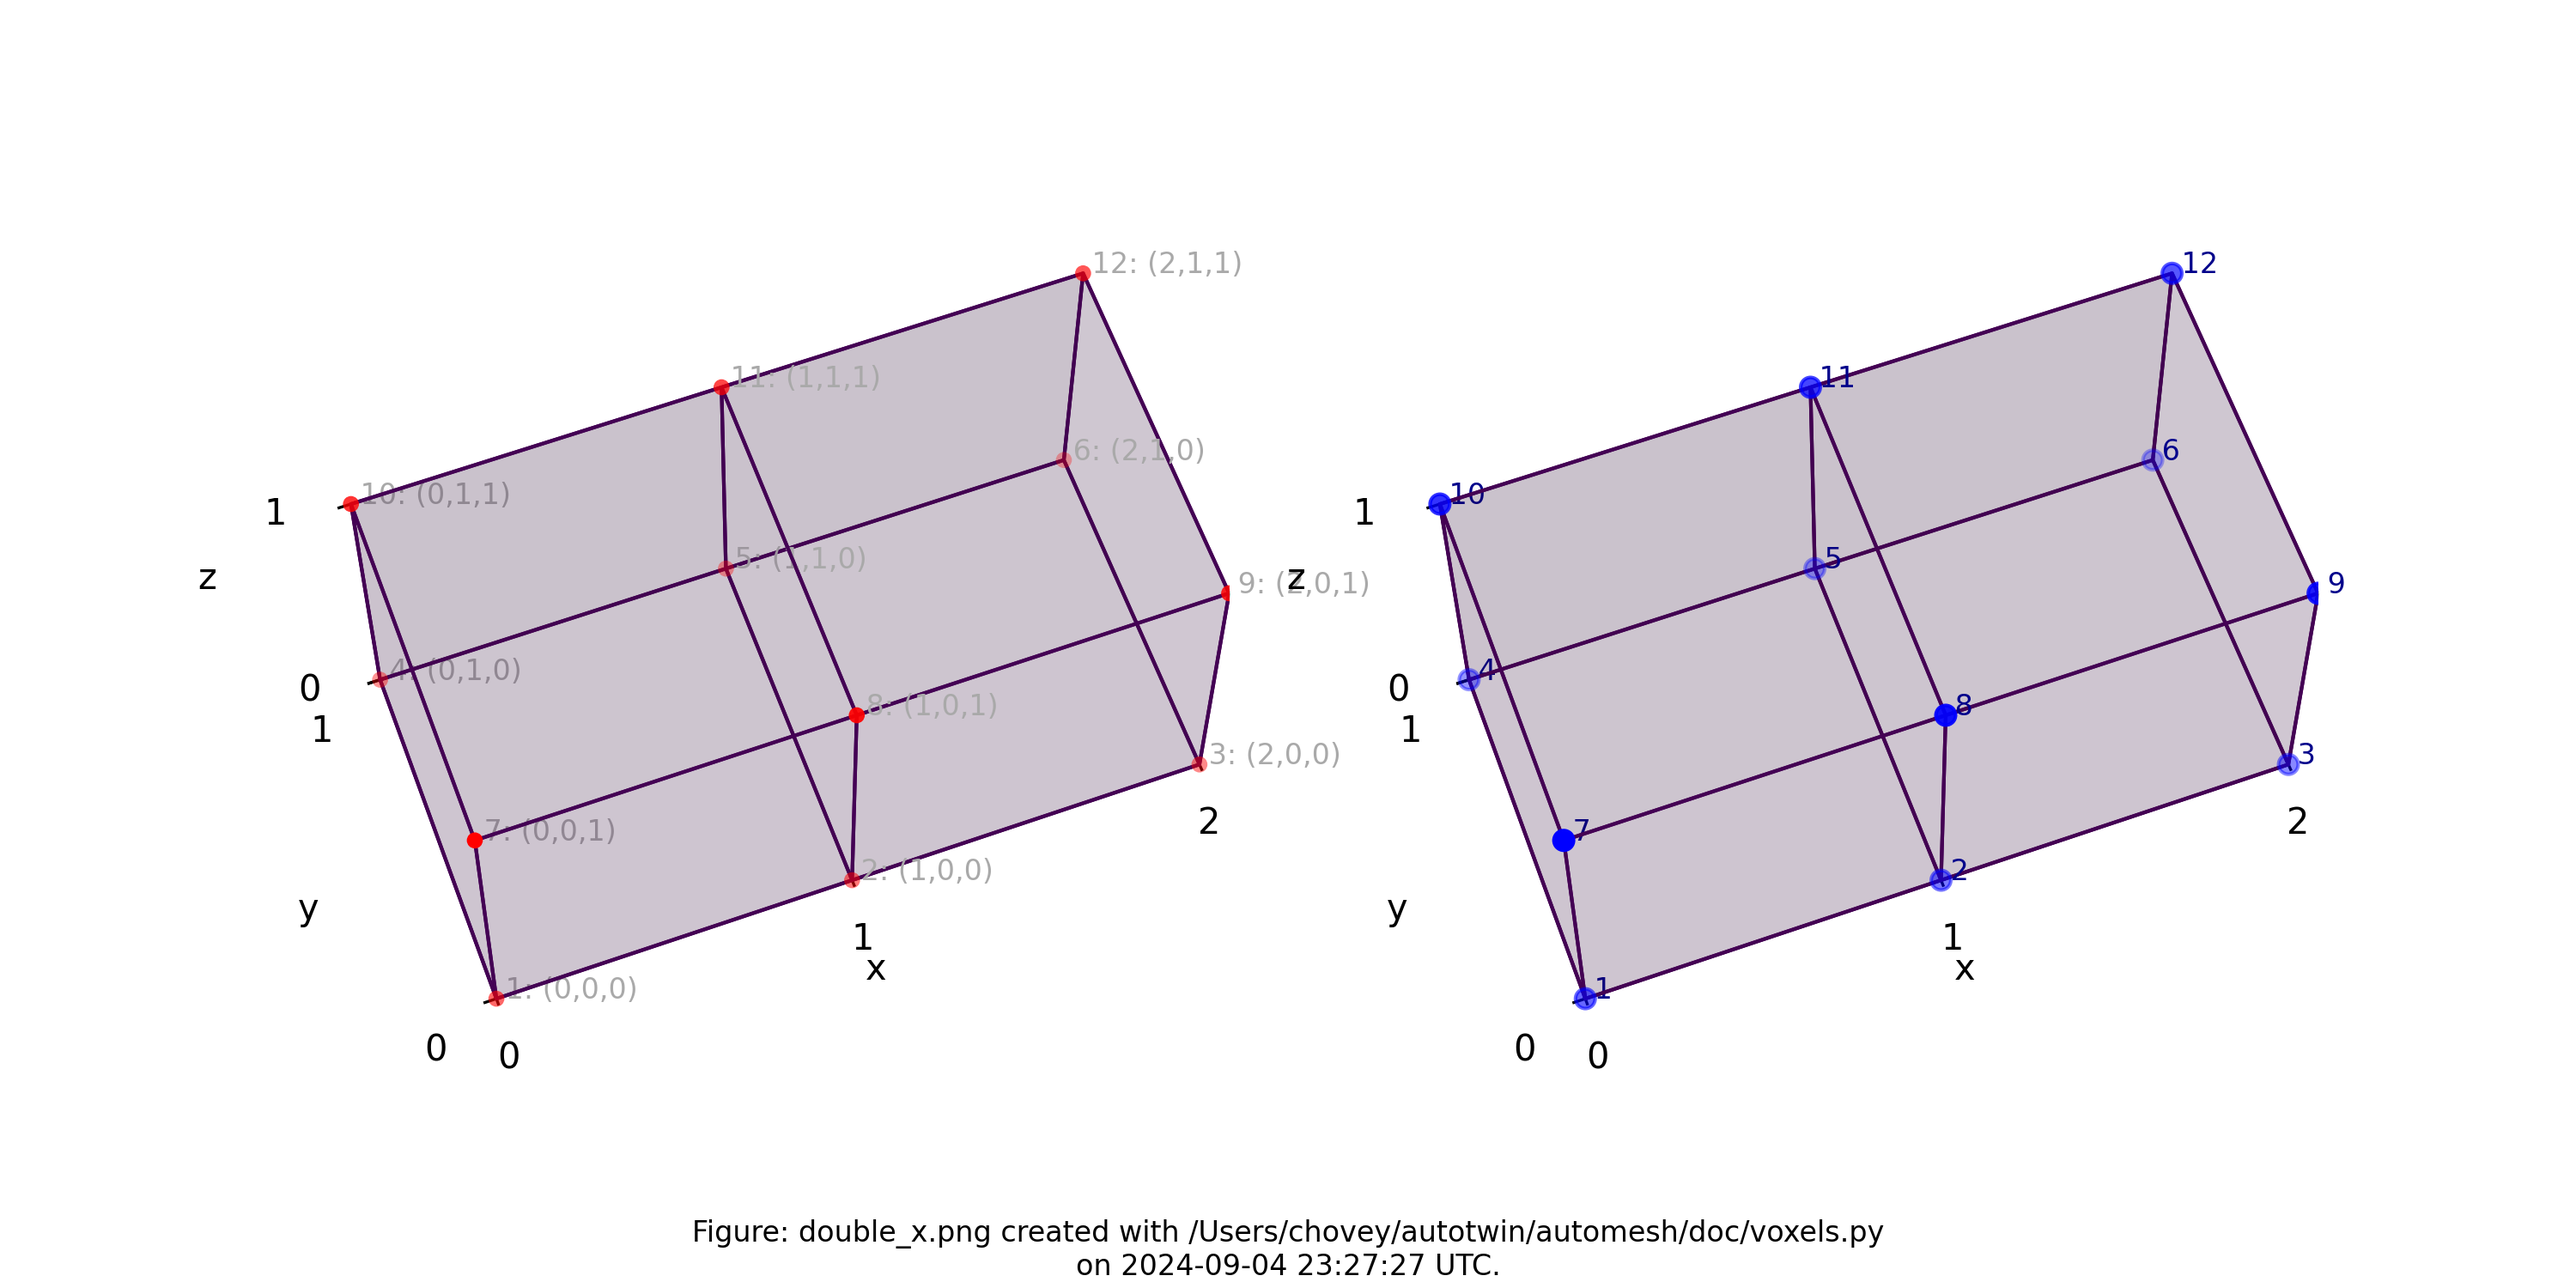
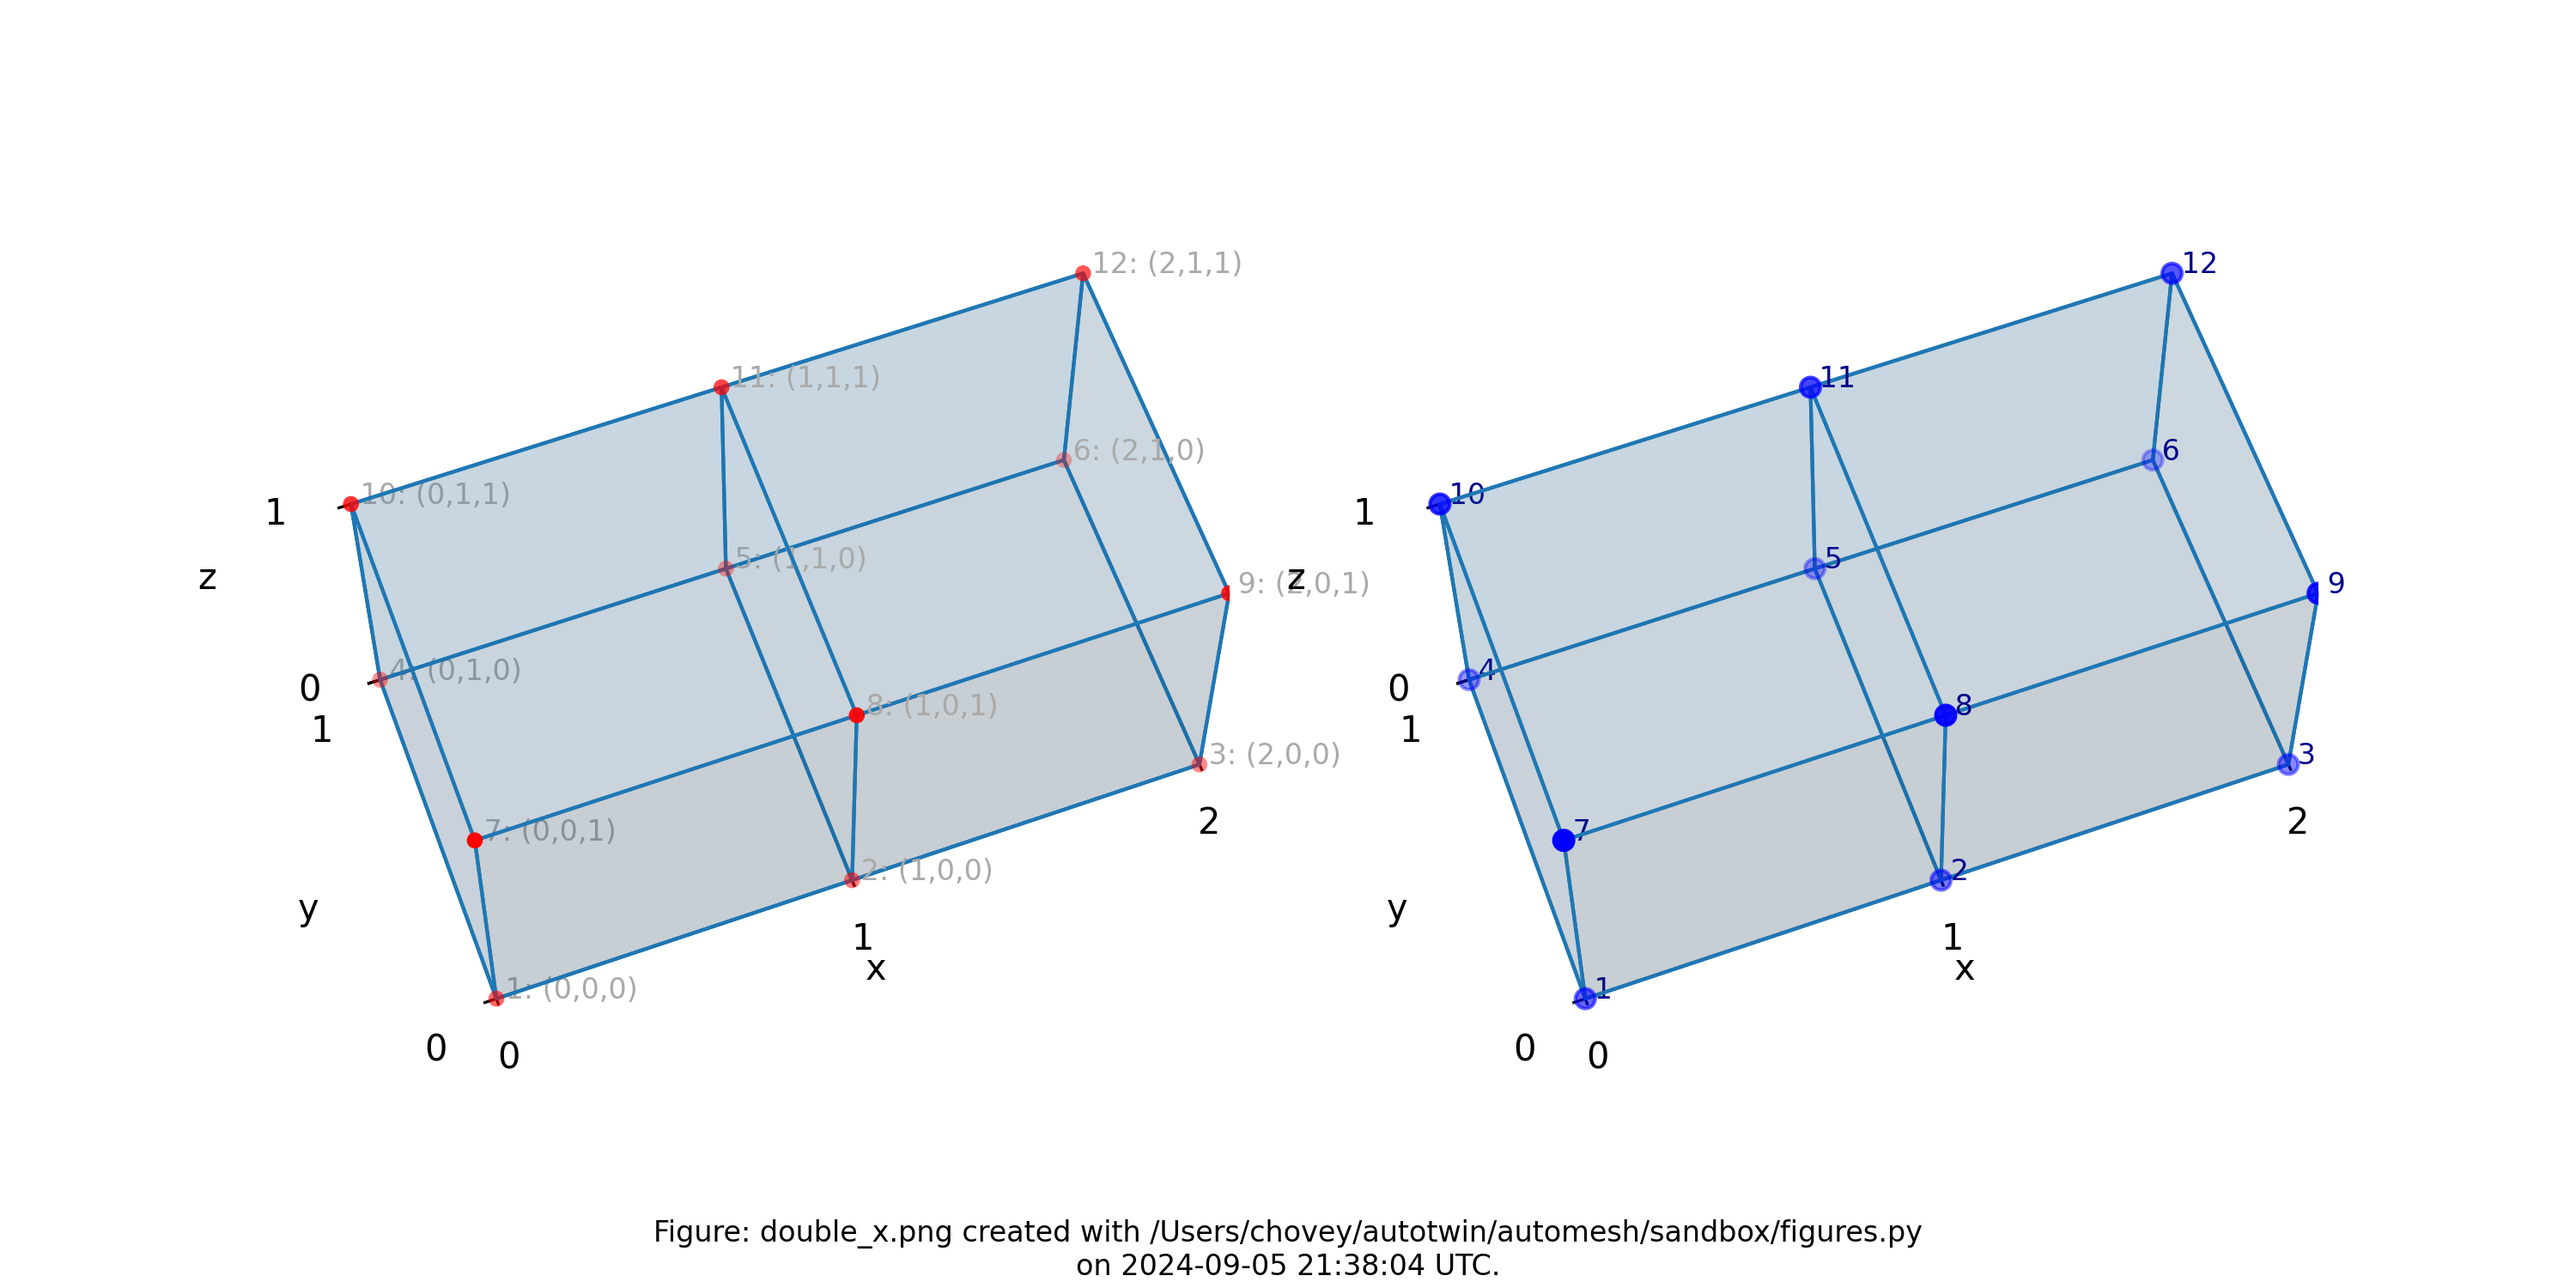
lightsource, nodes off/on, finalized letter_f_3d

diff --git a/sandbox/figures.py b/sandbox/figures.py
@@ -22,6 +22,7 @@ from typing import Final, NamedTuple
 
 # third-party libary
 import matplotlib.pyplot as plt
+from matplotlib.colors import LightSource
 from mpl_toolkits.mplot3d import Axes3D
 import numpy as np
 from numpy.typing import NDArray
@@ -1049,17 +1050,17 @@ def main():
     # Create an instance of a specific example
     # user input begin
     examples = [
-        # Single(),
-        # DoubleX(),
-        # DoubleY(),
-        # TripleX(),
-        # QuadrupleX(),
-        # Quadruple2VoidsX(),
-        # Quadruple2Blocks(),
-        # Quadruple2BlocksVoid(),
-        # Cube(),
-        # CubeMulti(),
-        # LetterF(),
+        Single(),
+        DoubleX(),
+        DoubleY(),
+        TripleX(),
+        QuadrupleX(),
+        Quadruple2VoidsX(),
+        Quadruple2Blocks(),
+        Quadruple2BlocksVoid(),
+        Cube(),
+        CubeMulti(),
+        LetterF(),
         LetterF3D(),
     ]
     for ex in examples:
@@ -1085,12 +1086,23 @@ def main():
         #
         # colors
         # cmap = cm.get_cmap("viridis")  # viridis colormap
-        cmap = plt.get_cmap(name="viridis")
+        # cmap = plt.get_cmap(name="viridis")
+        cmap = plt.get_cmap(name="tab10")
         # number of discrete colors
         num_colors = len(ex.included_ids)
         colors = cmap(np.linspace(0, 1, num_colors))
         # breakpoint()
         voxel_alpha: Final[float] = 0.1
+        # voxel_alpha: Final[float] = 0.7
+        # azimuth (deg):
+        #   0 is east  (from +y-axis looking back toward origin)
+        #  90 is north (from +x-axis looking back toward origin)
+        # 180 is west  (from -y-axis looking back toward origin)
+        # 270 is south (from -x-axis looking back toward origin)
+        # elevation (deg): 0 is horizontal, 90 is vertical (+z-axis up)
+        lightsource = LightSource(azdeg=325, altdeg=45)  # azimuth, elevation
+        nodes_shown: Final[bool] = True
+        # nodes_shown: Final[bool] = False
 
         # io: if the output directory does not already exist, create it
         output_path = Path(output_dir).expanduser()
@@ -1161,6 +1173,7 @@ def main():
                 facecolors=colors[i],
                 edgecolor=colors[i],
                 alpha=voxel_alpha,
+                lightsource=lightsource,
             )
             # plot the same voxels on the 2nd axis
             ax2.voxels(
@@ -1168,6 +1181,7 @@ def main():
                 facecolors=colors[i],
                 edgecolor=colors[i],
                 alpha=voxel_alpha,
+                lightsource=lightsource,
             )
 
         # breakpoint()
@@ -1210,33 +1224,34 @@ def main():
                     lattice_ijk += 1
                     labels.append(f" {lattice_ijk}: ({i},{j},{k})")
 
-        # Plot the lattice coordinates
-        ax.scatter(
-            x,
-            y,
-            z,
-            s=20,
-            facecolors="red",
-            edgecolors="none",
-        )
+        if nodes_shown:
+            # Plot the lattice coordinates
+            ax.scatter(
+                x,
+                y,
+                z,
+                s=20,
+                facecolors="red",
+                edgecolors="none",
+            )
 
-        # Label the lattice coordinates
-        for n, label in enumerate(labels):
-            ax.text(x[n], y[n], z[n], label, color="darkgray", fontsize=8)
+            # Label the lattice coordinates
+            for n, label in enumerate(labels):
+                ax.text(x[n], y[n], z[n], label, color="darkgray", fontsize=8)
 
-        # Plot the nodes included in the finite element connectivity
-        ax2.scatter(
-            xel,
-            yel,
-            zel,
-            s=30,
-            facecolors="blue",
-            edgecolors="blue",
-        )
+            # Plot the nodes included in the finite element connectivity
+            ax2.scatter(
+                xel,
+                yel,
+                zel,
+                s=30,
+                facecolors="blue",
+                edgecolors="blue",
+            )
 
-        # Label the global node numbers
-        for n, label in enumerate(gnn_labels):
-            ax2.text(xel[n], yel[n], zel[n], label, color="darkblue", fontsize=8)
+            # Label the global node numbers
+            for n, label in enumerate(gnn_labels):
+                ax2.text(xel[n], yel[n], zel[n], label, color="darkblue", fontsize=8)
 
         # Set labels for the axes
         ax.set_xlabel("x")
